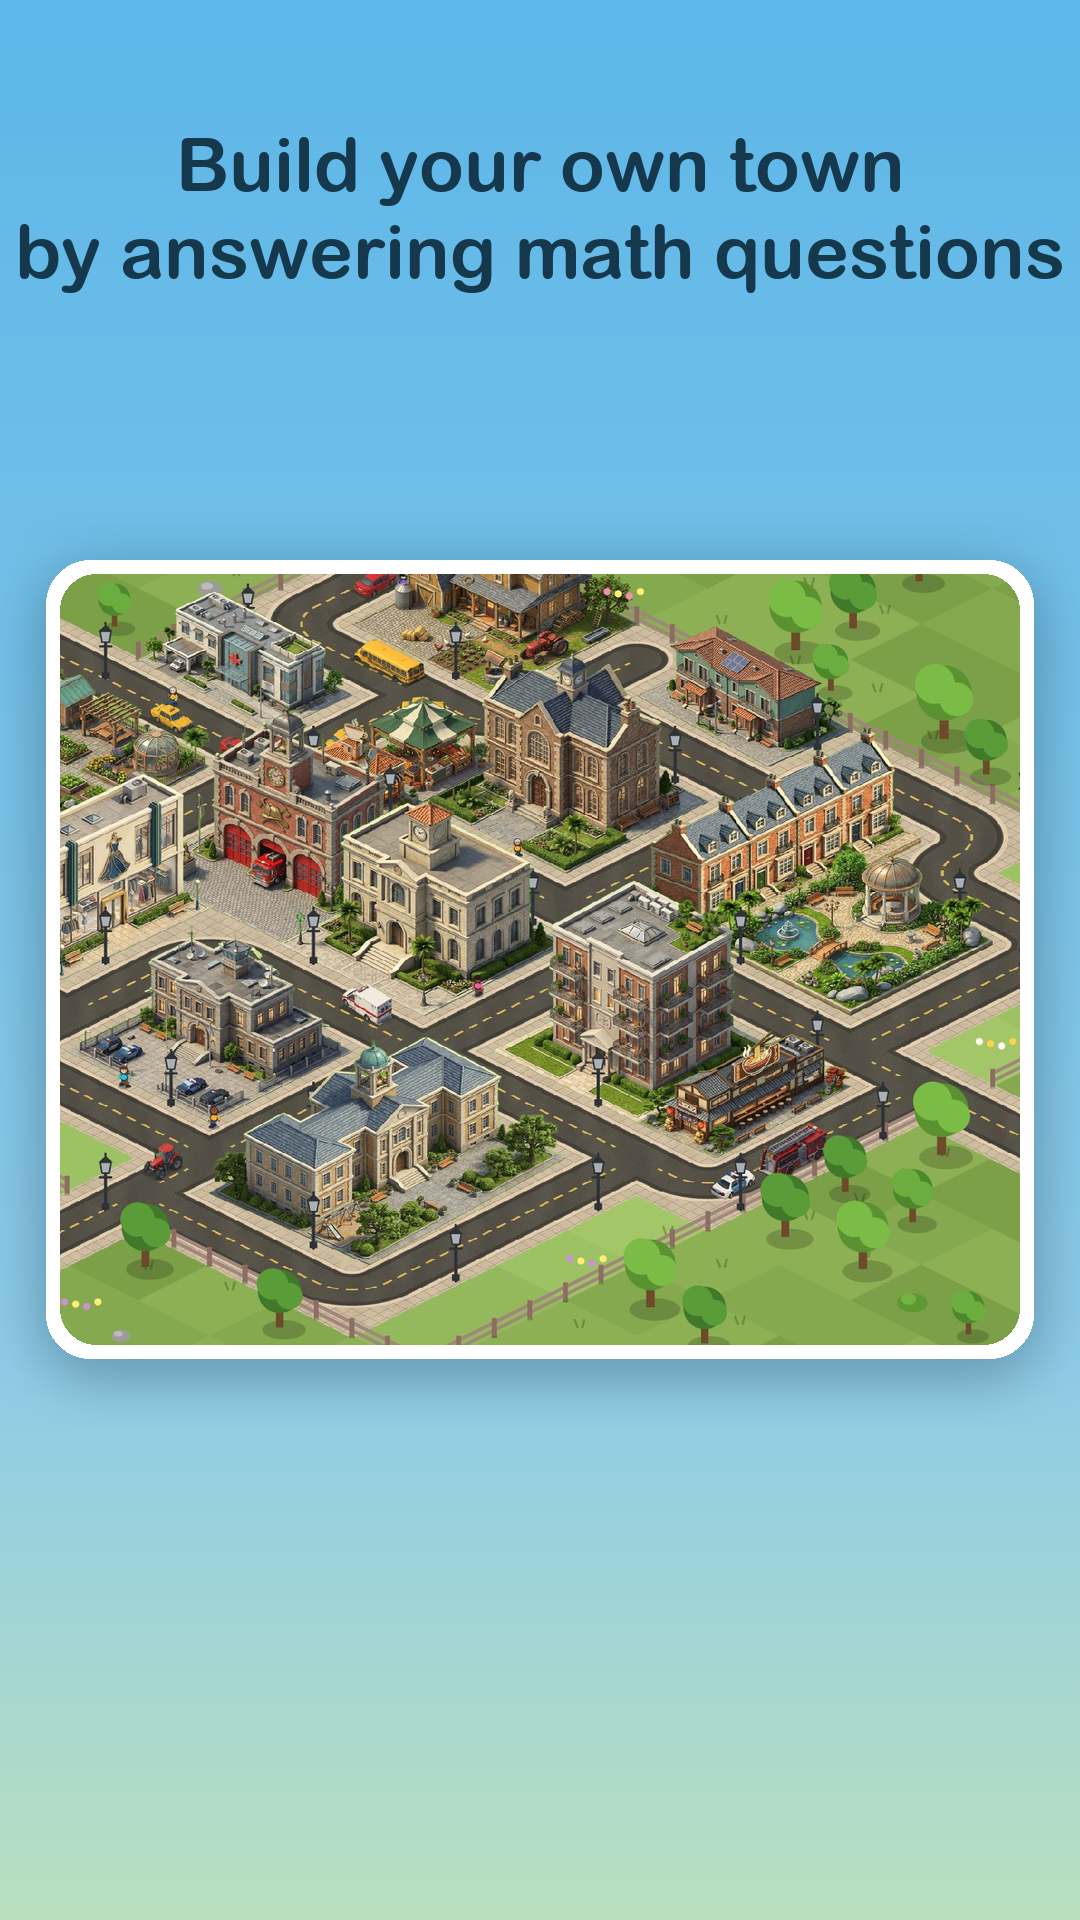
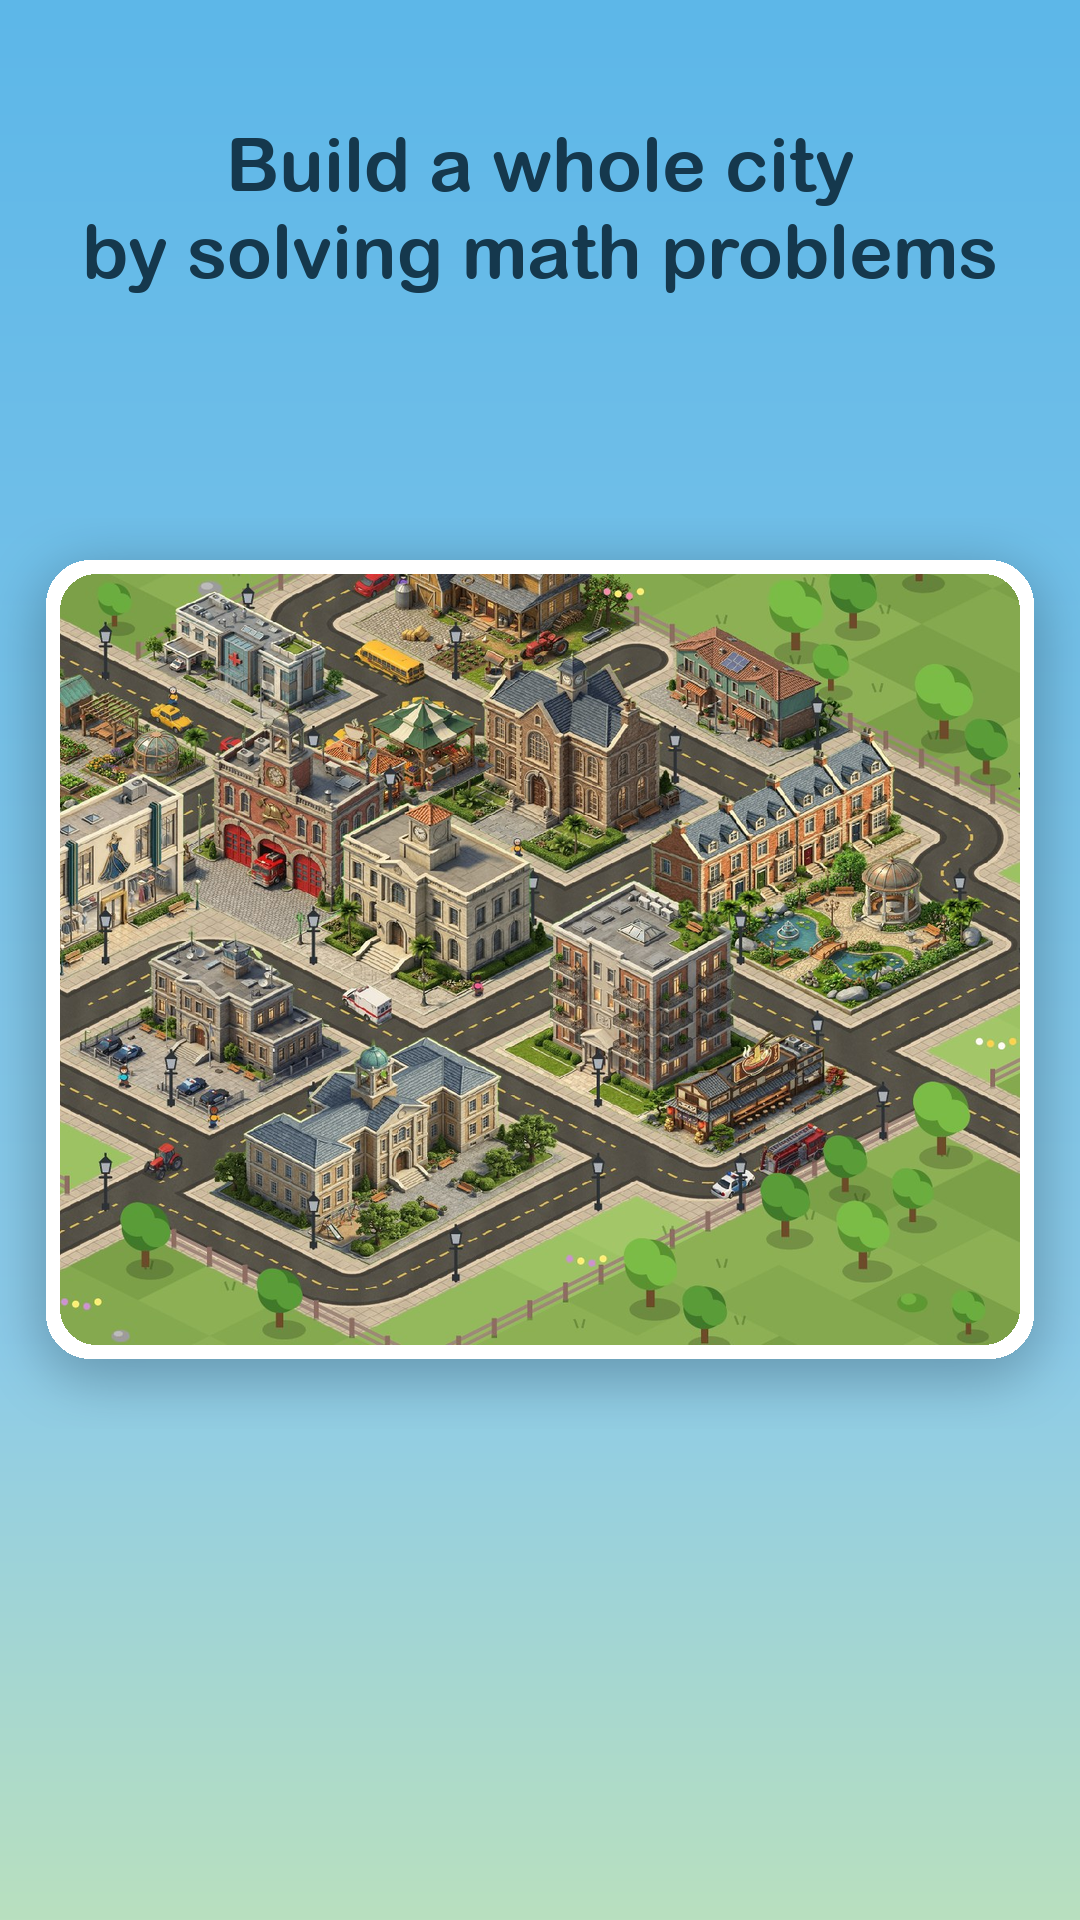
One pitch everywhere: "Build a whole city by solving math problems"
The README, the website, the Play and TestFlight descriptions, the Play
release notes and the first Play screenshot all used a second wording
("build your own town by answering math questions"). They now share the
headline's words; the intro sentence that followed the headline reads
"every math problem your child solves builds their city" so the headline
is not repeated back to back.

Changed region(s): [[0.0, 0.0625, 0.9778, 0.1562]]

diff --git a/site/index.html b/site/index.html
@@ -4,7 +4,7 @@
   <meta charset="utf-8">
   <meta name="viewport" content="width=device-width, initial-scale=1">
   <title>Math City: build a whole city by solving math problems</title>
-  <meta name="description" content="Math City is a free math game for kids aged 6 to 14. Kids build their own town by answering math questions. Over 350 skills from kindergarten to grade 8. Works offline, no ads, no purchases, collects no data.">
+  <meta name="description" content="Math City is a free math game for kids aged 6 to 14. Every math problem a kid solves builds their city. Over 350 skills from kindergarten to grade 8. Works offline, no ads, no purchases, collects no data.">
   <meta property="og:type" content="website">
   <meta property="og:url" content="https://quarup.github.io/math_city/">
   <meta property="og:title" content="Math City">
@@ -31,7 +31,7 @@
 
   <main class="wrap">
     <section class="intro" aria-label="About Math City">
-      <p>In Math City, kids build their own town by answering math questions: a
+      <p>In Math City, every math problem a kid solves builds their city: a
       first little house, then shops, schools, parks and streets that light up at
       night. Townspeople send letters asking for what they need next, and it's up
       to them to build it.</p>

diff --git a/README.md b/README.md
@@ -14,8 +14,8 @@ Available on iPad, iPhone and Android for kids aged 6 to 14.</p>
   <img src="docs/readme/city_night.png" width="48%" alt="The same city at 8 pm, windows and street lamps lit">
 </p>
 
-In Math City, kids build their own town by answering math questions: a
-first little house, then shops, schools, parks and streets that light up at
+In Math City, every math problem a kid solves builds their city: a first
+little house, then shops, schools, parks and streets that light up at
 night. Townspeople send letters asking for what they need next, and it's up
 to you to build it.
 
